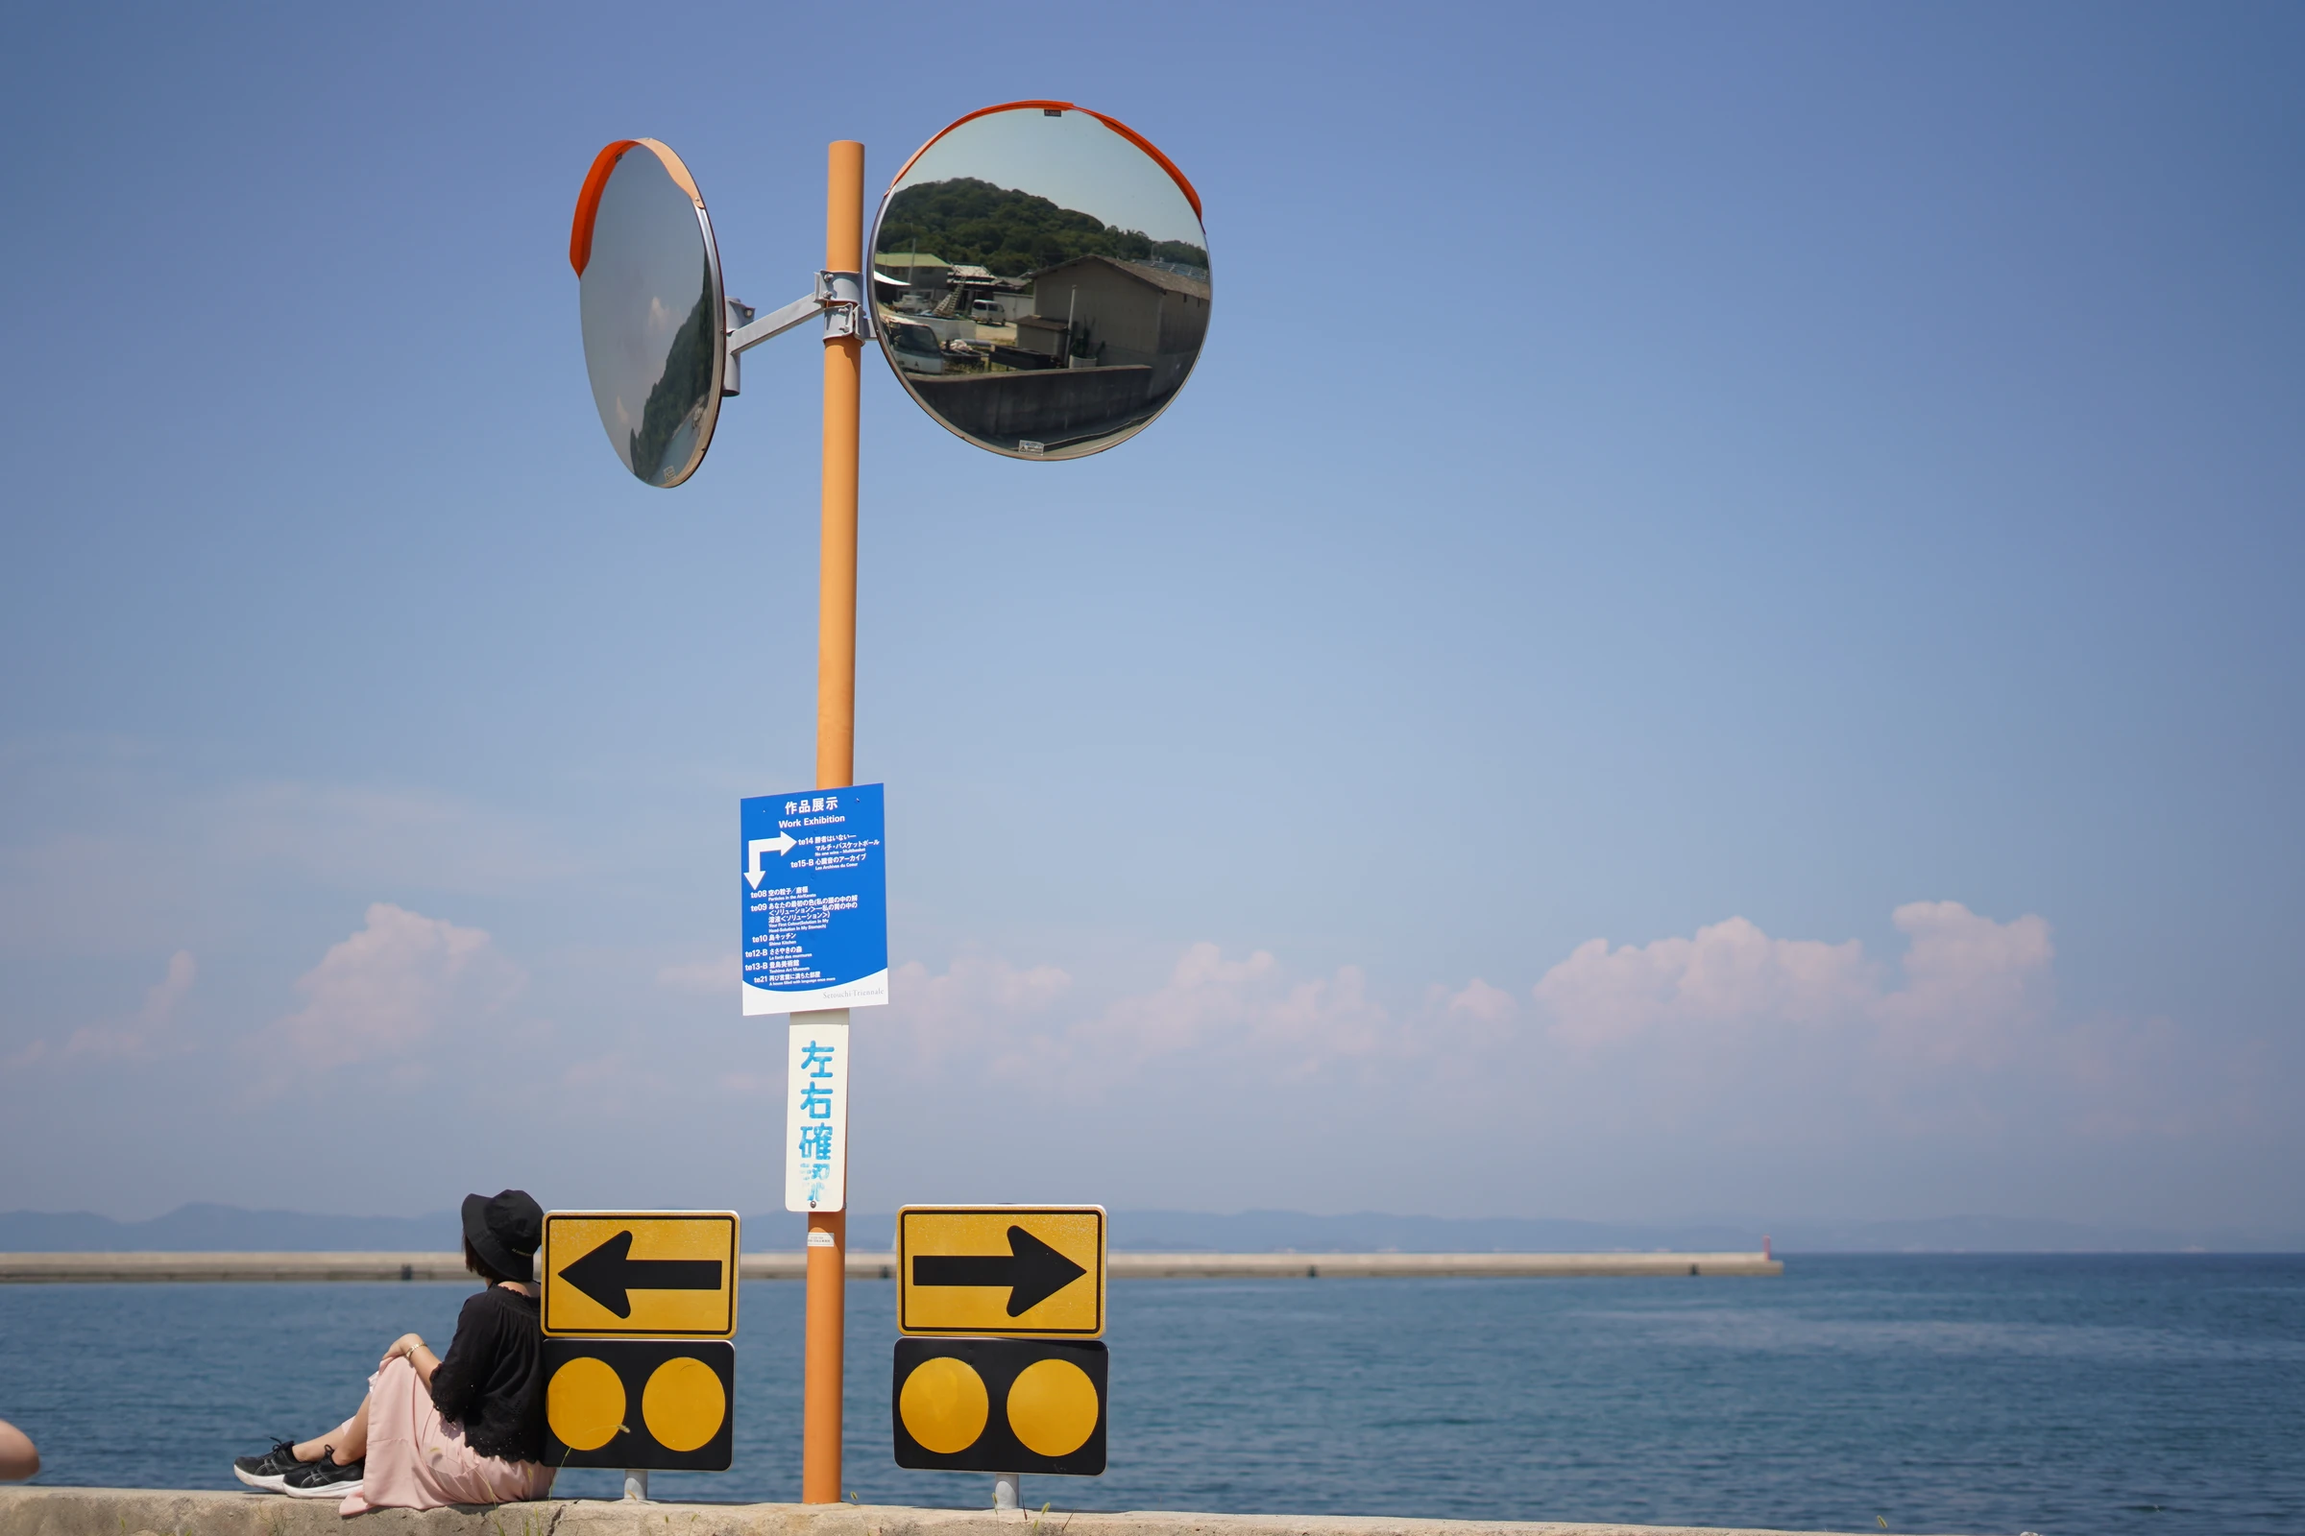
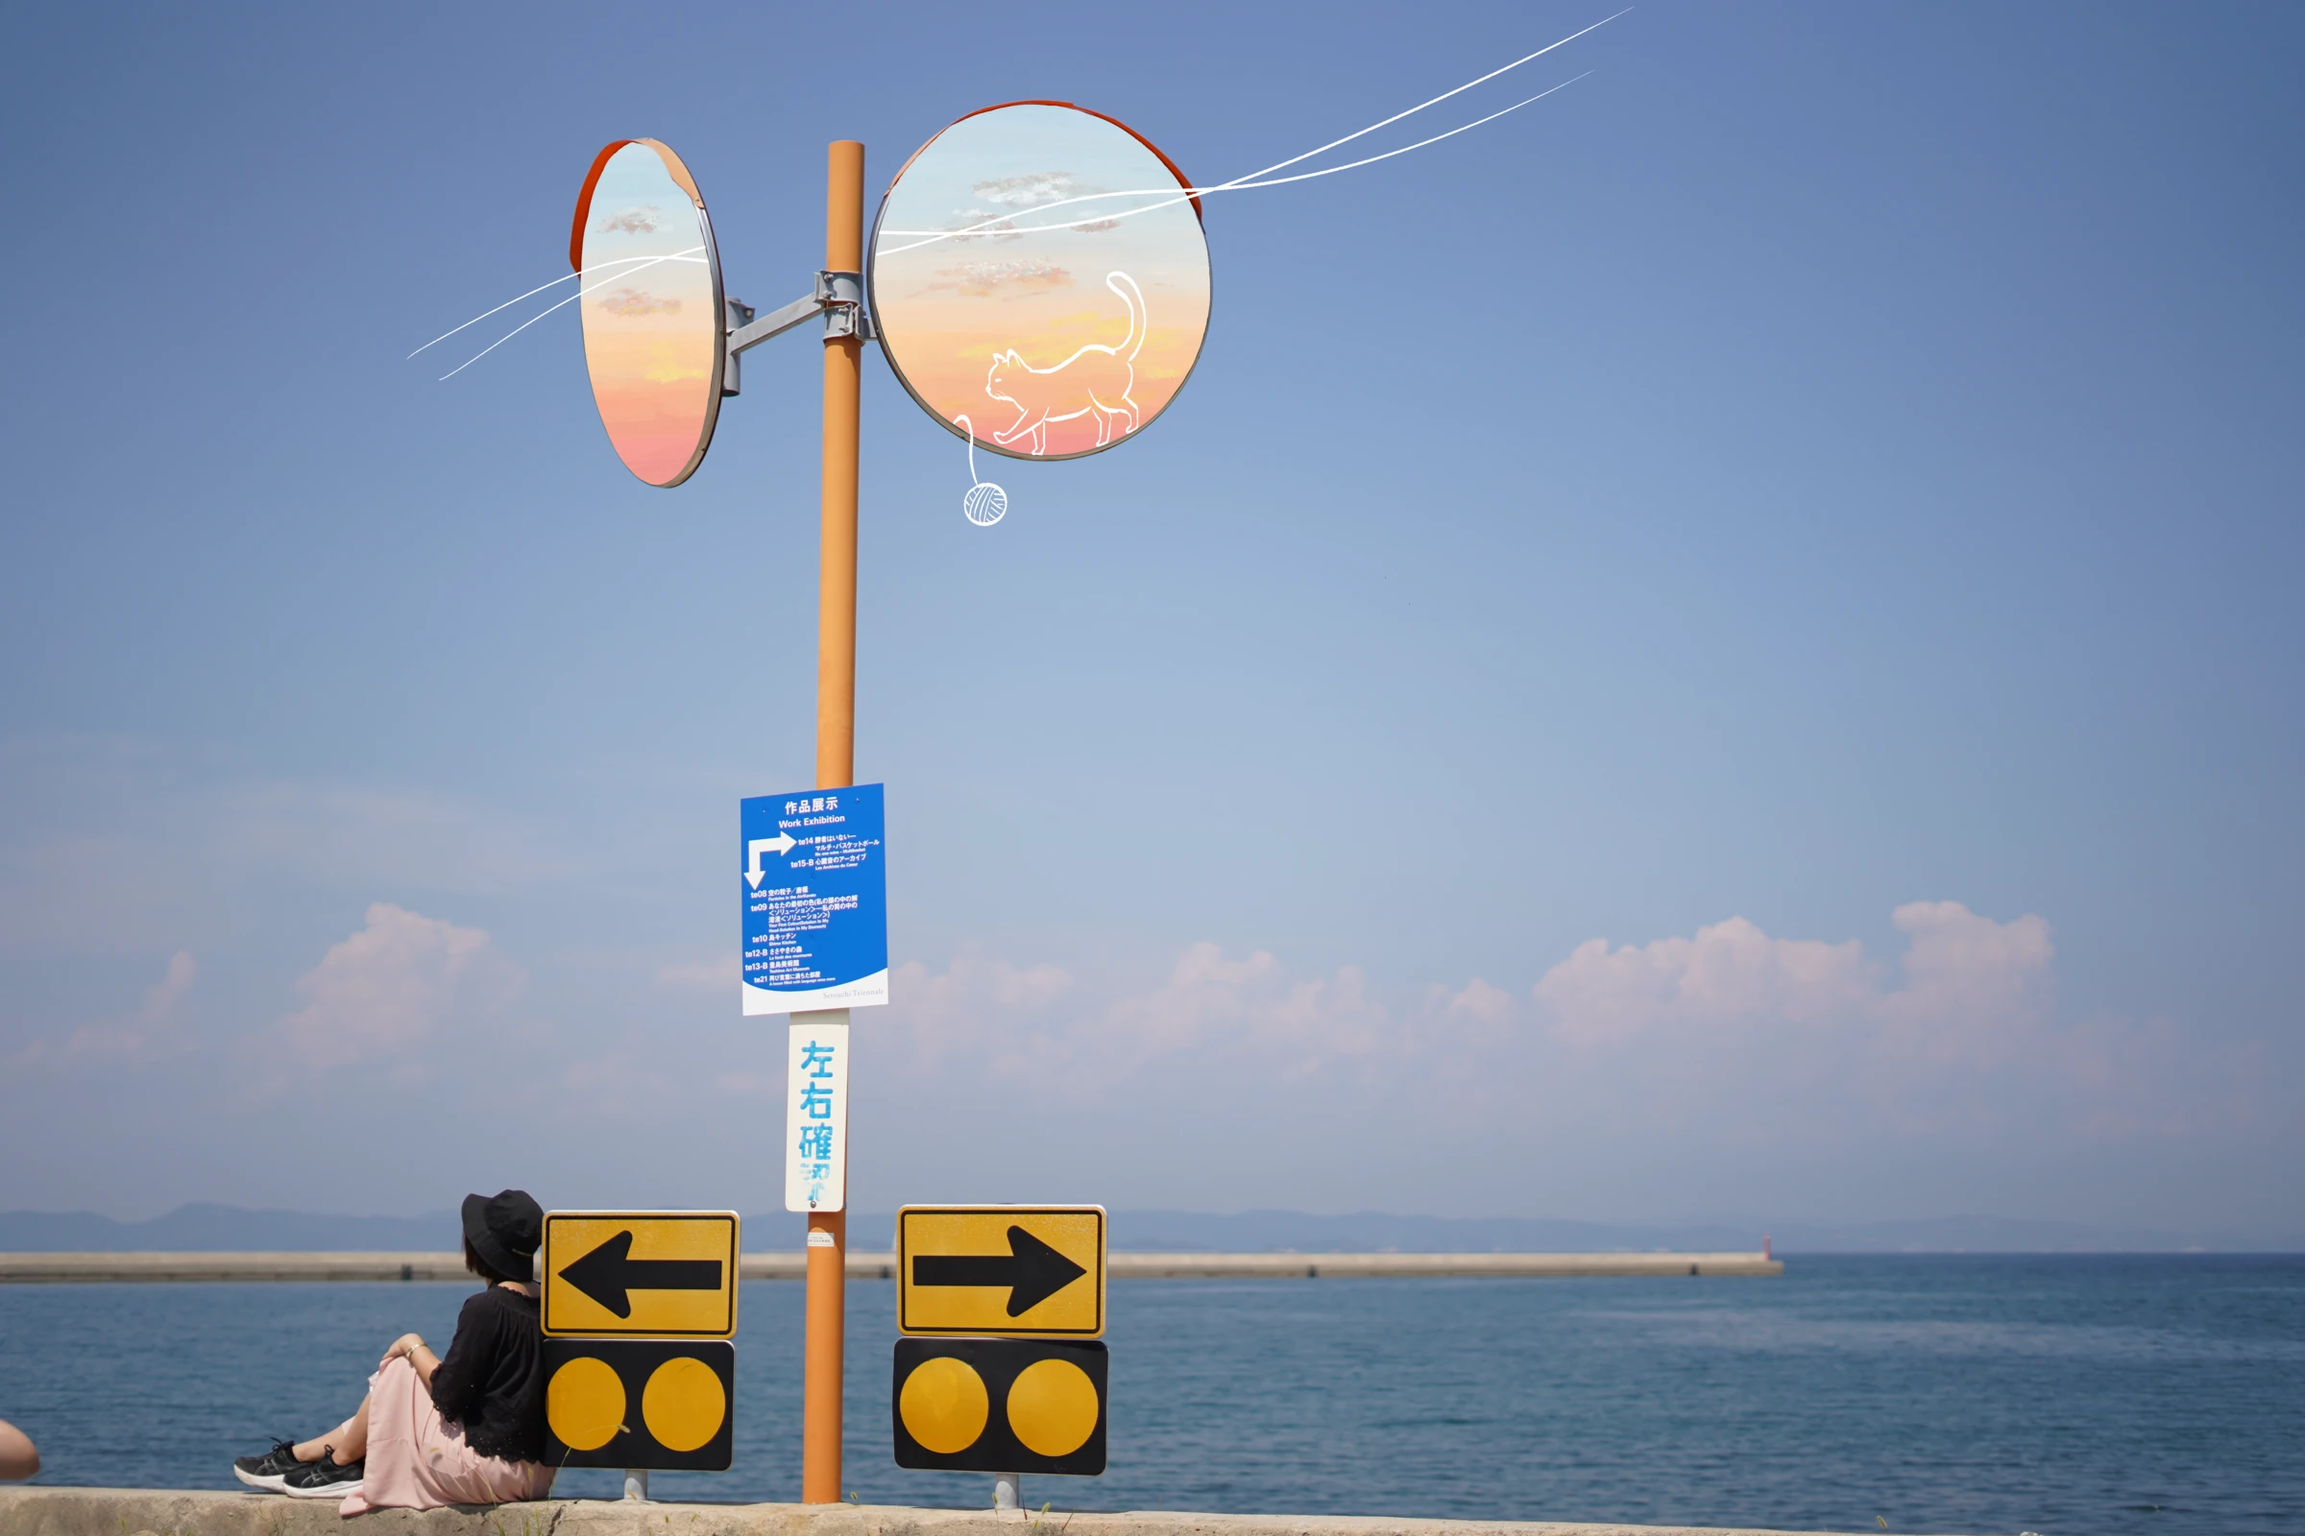
Update portfolio artwork and information display

Changed region(s): [[0.375, 0.0625, 0.5938, 0.3438], [0.25, 0.0938, 0.3125, 0.3125], [0.5938, 0.0625, 0.625, 0.0938]]

diff --git a/portfolio/index.html b/portfolio/index.html
@@ -190,6 +190,21 @@
         </figure>
 
         <figure class="work">
+          <a class="work-link" href="assets/works/dsc04231/full.webp" data-info="assets/works/dsc04231/info.json" aria-haspopup="dialog">
+            <img
+              src="assets/works/dsc04231/thumbnail.webp"
+              srcset="assets/works/dsc04231/thumbnail.webp 1200w, assets/works/dsc04231/full.webp 2400w"
+              sizes="(max-width: 46rem) calc(100vw - 2rem), (max-width: 68rem) 46vw, 24rem"
+              width="1200"
+              height="800"
+              alt="Two roadside mirrors above yellow arrow signs by the sea, with a drawn cat and white lines across the sky."
+              loading="lazy"
+              decoding="async"
+            >
+          </a>
+        </figure>
+
+        <figure class="work">
           <a class="work-link" href="assets/works/dsc01962-1/full.webp" data-info="assets/works/dsc01962-1/info.json" aria-haspopup="dialog">
             <img
               src="assets/works/dsc01962-1/thumbnail.webp"
@@ -220,21 +235,6 @@
         </figure>
 
         <figure class="work">
-          <a class="work-link" href="assets/works/dsc09620-edit/full.webp" data-info="assets/works/dsc09620-edit/info.json" aria-haspopup="dialog">
-            <img
-              src="assets/works/dsc09620-edit/thumbnail.webp"
-              srcset="assets/works/dsc09620-edit/thumbnail.webp 1200w, assets/works/dsc09620-edit/full.webp 2400w"
-              sizes="(max-width: 46rem) calc(100vw - 2rem), (max-width: 68rem) 46vw, 24rem"
-              width="1200"
-              height="800"
-              alt="A river reflecting a bridge and trees in black and white."
-              loading="lazy"
-              decoding="async"
-            >
-          </a>
-        </figure>
-
-        <figure class="work">
           <a class="work-link" href="assets/works/dsc04129/full.webp" data-info="assets/works/dsc04129/info.json" aria-haspopup="dialog">
             <img
               src="assets/works/dsc04129/thumbnail.webp"
@@ -243,51 +243,6 @@
               width="1200"
               height="800"
               alt="A mug of dark tea and a wrapped slice of cake on a wooden table."
-              loading="lazy"
-              decoding="async"
-            >
-          </a>
-        </figure>
-
-        <figure class="work">
-          <a class="work-link" href="assets/works/dsc04137/full.webp" data-info="assets/works/dsc04137/info.json" aria-haspopup="dialog">
-            <img
-              src="assets/works/dsc04137/thumbnail.webp"
-              srcset="assets/works/dsc04137/thumbnail.webp 1200w, assets/works/dsc04137/full.webp 2400w"
-              sizes="(max-width: 46rem) calc(100vw - 2rem), (max-width: 68rem) 46vw, 24rem"
-              width="1200"
-              height="800"
-              alt="The silhouette of a person on a road lit by streetlights at night."
-              loading="lazy"
-              decoding="async"
-            >
-          </a>
-        </figure>
-
-        <figure class="work">
-          <a class="work-link" href="assets/works/dsc00853-edit/full.webp" data-info="assets/works/dsc00853-edit/info.json" aria-haspopup="dialog">
-            <img
-              src="assets/works/dsc00853-edit/thumbnail.webp"
-              srcset="assets/works/dsc00853-edit/thumbnail.webp 1200w, assets/works/dsc00853-edit/full.webp 2400w"
-              sizes="(max-width: 46rem) calc(100vw - 2rem), (max-width: 68rem) 46vw, 24rem"
-              width="1200"
-              height="800"
-              alt="Red autumn leaves framing the corner of a wooden building."
-              loading="lazy"
-              decoding="async"
-            >
-          </a>
-        </figure>
-
-        <figure class="work">
-          <a class="work-link" href="assets/works/dsc03634-edit/full.webp" data-info="assets/works/dsc03634-edit/info.json" aria-haspopup="dialog">
-            <img
-              src="assets/works/dsc03634-edit/thumbnail.webp"
-              srcset="assets/works/dsc03634-edit/thumbnail.webp 1200w, assets/works/dsc03634-edit/full.webp 1616w"
-              sizes="(max-width: 46rem) calc(100vw - 2rem), (max-width: 68rem) 46vw, 24rem"
-              width="1200"
-              height="802"
-              alt="A large circular station clock and a grid of windows in black and white."
               loading="lazy"
               decoding="async"
             >
@@ -310,6 +265,21 @@
         </figure>
 
         <figure class="work">
+          <a class="work-link" href="assets/works/dsc09620-edit/full.webp" data-info="assets/works/dsc09620-edit/info.json" aria-haspopup="dialog">
+            <img
+              src="assets/works/dsc09620-edit/thumbnail.webp"
+              srcset="assets/works/dsc09620-edit/thumbnail.webp 1200w, assets/works/dsc09620-edit/full.webp 2400w"
+              sizes="(max-width: 46rem) calc(100vw - 2rem), (max-width: 68rem) 46vw, 24rem"
+              width="1200"
+              height="800"
+              alt="A river reflecting a bridge and trees in black and white."
+              loading="lazy"
+              decoding="async"
+            >
+          </a>
+        </figure>
+
+        <figure class="work">
           <a class="work-link" href="assets/works/dsc03271-1/full.webp" data-info="assets/works/dsc03271-1/info.json" aria-haspopup="dialog">
             <img
               src="assets/works/dsc03271-1/thumbnail.webp"
@@ -318,6 +288,36 @@
               width="1200"
               height="800"
               alt="The low sun shining over a road and silhouetted city buildings."
+              loading="lazy"
+              decoding="async"
+            >
+          </a>
+        </figure>
+
+        <figure class="work">
+          <a class="work-link" href="assets/works/dsc03634-edit/full.webp" data-info="assets/works/dsc03634-edit/info.json" aria-haspopup="dialog">
+            <img
+              src="assets/works/dsc03634-edit/thumbnail.webp"
+              srcset="assets/works/dsc03634-edit/thumbnail.webp 1200w, assets/works/dsc03634-edit/full.webp 1616w"
+              sizes="(max-width: 46rem) calc(100vw - 2rem), (max-width: 68rem) 46vw, 24rem"
+              width="1200"
+              height="802"
+              alt="A large circular station clock and a grid of windows in black and white."
+              loading="lazy"
+              decoding="async"
+            >
+          </a>
+        </figure>
+
+        <figure class="work">
+          <a class="work-link" href="assets/works/dsc04137/full.webp" data-info="assets/works/dsc04137/info.json" aria-haspopup="dialog">
+            <img
+              src="assets/works/dsc04137/thumbnail.webp"
+              srcset="assets/works/dsc04137/thumbnail.webp 1200w, assets/works/dsc04137/full.webp 2400w"
+              sizes="(max-width: 46rem) calc(100vw - 2rem), (max-width: 68rem) 46vw, 24rem"
+              width="1200"
+              height="800"
+              alt="The silhouette of a person on a road lit by streetlights at night."
               loading="lazy"
               decoding="async"
             >
@@ -730,21 +730,6 @@
         </figure>
 
         <figure class="work">
-          <a class="work-link" href="assets/works/dsc04231/full.webp" data-info="assets/works/dsc04231/info.json" aria-haspopup="dialog">
-            <img
-              src="assets/works/dsc04231/thumbnail.webp"
-              srcset="assets/works/dsc04231/thumbnail.webp 1200w, assets/works/dsc04231/full.webp 2400w"
-              sizes="(max-width: 46rem) calc(100vw - 2rem), (max-width: 68rem) 46vw, 24rem"
-              width="1200"
-              height="800"
-              alt="Two round roadside mirrors above a yellow sign beside the sea."
-              loading="lazy"
-              decoding="async"
-            >
-          </a>
-        </figure>
-
-        <figure class="work">
           <a class="work-link" href="assets/works/dsc03989/full.webp" data-info="assets/works/dsc03989/info.json" aria-haspopup="dialog">
             <img
               src="assets/works/dsc03989/thumbnail.webp"
@@ -753,6 +738,21 @@
               width="1200"
               height="800"
               alt="A yellow bridge across a river with a tall tower in the distance."
+              loading="lazy"
+              decoding="async"
+            >
+          </a>
+        </figure>
+
+        <figure class="work">
+          <a class="work-link" href="assets/works/dsc00853-edit/full.webp" data-info="assets/works/dsc00853-edit/info.json" aria-haspopup="dialog">
+            <img
+              src="assets/works/dsc00853-edit/thumbnail.webp"
+              srcset="assets/works/dsc00853-edit/thumbnail.webp 1200w, assets/works/dsc00853-edit/full.webp 2400w"
+              sizes="(max-width: 46rem) calc(100vw - 2rem), (max-width: 68rem) 46vw, 24rem"
+              width="1200"
+              height="800"
+              alt="Red autumn leaves framing the corner of a wooden building."
               loading="lazy"
               decoding="async"
             >

diff --git a/portfolio/gallery.js b/portfolio/gallery.js
@@ -122,7 +122,10 @@
     }
 
     entries.filter((entry) => !["Camera", "Lens", ...settingsLabels].includes(entry.label))
-      .forEach((entry) => appendDetail(entry.label, entry.value));
+      .forEach((entry) => {
+        const pair = appendDetail(entry.label, entry.value);
+        if (entry.label === "Location") pair.querySelector("dt").className = "visually-hidden";
+      });
 
     const hasInformation = Boolean(title.textContent || description.textContent || details.childElementCount);
     information.hidden = !hasInformation;

diff --git a/portfolio/scripts/editor/editor.js b/portfolio/scripts/editor/editor.js
@@ -175,7 +175,7 @@
     for (const entry of entries) {
       const term = document.createElement('dt'), value = document.createElement('dd');
       term.textContent = entry.label; value.textContent = entry.value;
-      if (['Camera', 'Lens'].includes(entry.label)) term.className = 'visually-hidden';
+      if (['Camera', 'Lens', 'Location'].includes(entry.label)) term.className = 'visually-hidden';
       list.append(term, value);
     }
     if (entries.length) preview.append(list);

diff --git a/portfolio/README.md b/portfolio/README.md
@@ -28,7 +28,7 @@ Open <http://localhost:8000/editor/>. From inside `portfolio/`, use `python3 scr
 - Use **2列** / **1列** to preview the same sequence with fewer columns. The editor and public page share the same masonry layout calculation and preserve image proportions. Change the order in the 3-column view; the narrower views follow that order automatically.
 - **Delete** hides a work and moves it to the **非表示** section below. **復活** returns it to the end of the active list. Image files and metadata are retained, including after saving and restarting the editor.
 - **元に戻す** / **やり直す** undo and redo changes in the current session. Focus an image and use arrow keys to reorder it. Escape cancels a drag.
-- Each work's **情報** button opens its metadata editor, including works in the hidden section. Edit title, **Location（場所）**, description, alternative text, and detail labels/values. Enter a shooting location and leave its **表示** checkbox selected to show it as **Location** in the public viewer. Add custom entries such as materials or year, or remove entries you no longer need.
+- Each work's **情報** button opens its metadata editor, including works in the hidden section. Edit title, **Location（場所）**, description, alternative text, and detail labels/values. Enter a shooting location and leave its **表示** checkbox selected to show the place without a visible label in the public viewer. Add custom entries such as materials or year, or remove entries you no longer need.
 - Under **詳細情報**, select **他の写真からコピー**, then choose a source thumbnail. Entries with labels absent from the current draft are appended with their original labels, values, and visibility settings. Existing labels are compared after trimming surrounding whitespace and are never overwritten, even when their values are empty. Copying again does not add duplicates. Both published and hidden works are available as sources; the current work is excluded. Review the preview, then use **変更を適用** and **保存** as usual. Copying remains part of the open dialog's edits, so **キャンセル** discards it and applying it supports Undo/Redo.
 - Select **表示** next to title, location, description, or an individual detail to choose what appears in the public viewer. Hiding a field preserves its value. Empty entries are omitted. The live preview uses the public viewer's visibility rules; the public viewer additionally groups shooting settings. Alternative text is for accessibility and is always available to screen readers.
 - **変更を適用** applies metadata edits to the current draft; **キャンセル** or Escape discards the open dialog's edits. Applied metadata edits participate in Undo/Redo and browser draft recovery along with layout edits. Source paths and generated image dimensions are shown for reference only.
